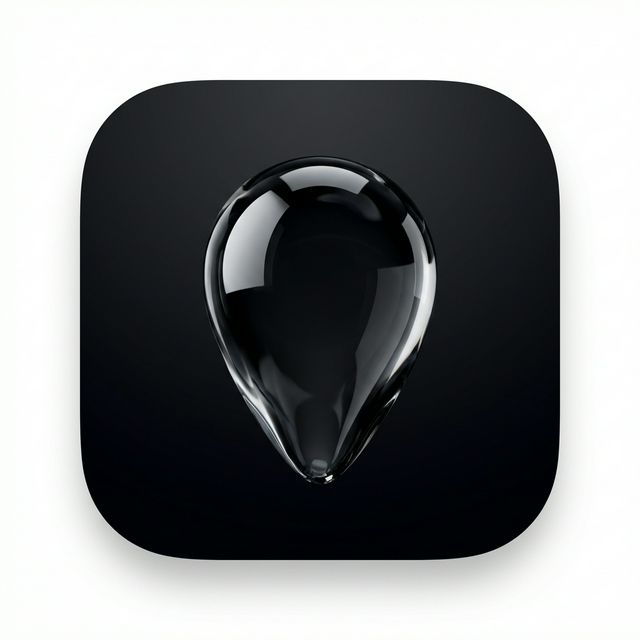
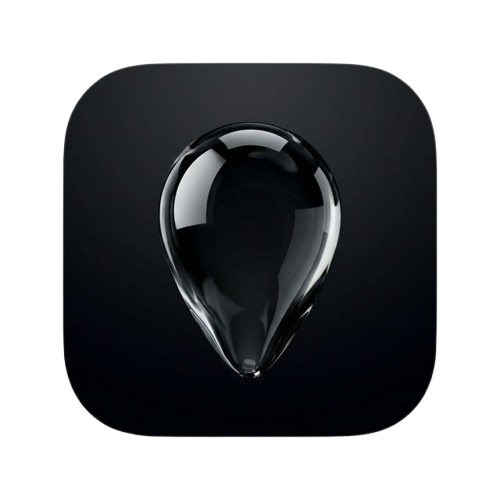
adjustment

diff --git a/public/index.html b/public/index.html
@@ -64,6 +64,7 @@
             background-size: 200% 200%;
             animation: gradientBG 15s ease infinite; 
             color: var(--text-primary);
+            padding-bottom: 15vh; /* Visual lift */
         }
         
         @keyframes gradientBG {
@@ -84,6 +85,27 @@
             border: 1px solid var(--glass-border);
             text-align: center;
             transition: transform 0.3s cubic-bezier(0.25, 0.8, 0.25, 1);
+            position: relative; /* For absolute positioning of lang toggle */
+        }
+        
+        .lang-toggle {
+            position: absolute;
+            top: 20px;
+            right: 20px;
+            background: rgba(120, 120, 128, 0.1);
+            border: none;
+            border-radius: 12px;
+            padding: 6px 10px;
+            font-size: 12px;
+            font-weight: 500;
+            color: var(--text-secondary);
+            cursor: pointer;
+            transition: all 0.2s ease;
+        }
+        
+        .lang-toggle:hover {
+            background: rgba(120, 120, 128, 0.2);
+            color: var(--text-primary);
         }
 
         .app-icon {
@@ -274,7 +296,13 @@
 <body>
 
 <div class="container">
-    <img src="/icon.png" alt="Icon" class="app-icon">
+    <button class="lang-toggle" id="langToggle" onclick="toggleLanguage()">EN / 中</button>
+    
+    <picture>
+        <source srcset="/icon-dark.png" media="(prefers-color-scheme: dark)">
+        <img src="/icon.png" alt="Icon" class="app-icon">
+    </picture>
+    
     <h1>GTC</h1>
     <p class="subtitle" id="lblSubtitle">Convert URLs to Coordinates</p>
 
@@ -318,7 +346,8 @@
             unknownPlace: '未知地點',
             copied: '已複製！',
             pleaseCopyFromShare: '請從 Google 地圖的「分享」功能複製網址',
-            coordsNotFound: '找不到座標'
+            coordsNotFound: '找不到座標',
+            toggleBtn: 'English'
         },
         'en': {
             subtitle: 'Convert URLs to Coordinates',
@@ -328,15 +357,18 @@
             unknownPlace: 'Unknown Place',
             copied: 'Copied!',
             pleaseCopyFromShare: 'Please copy the URL using the Share function in Google Maps',
-            coordsNotFound: 'Coords not found'
+            coordsNotFound: 'Coords not found',
+            toggleBtn: '中文'
         }
     };
 
-    // Detect Language
-    const userLang = navigator.language || navigator.userLanguage;
-    const isZh = userLang.toLowerCase().includes('zh') || userLang.toLowerCase().includes('tw');
-    const lang = isZh ? 'zh-TW' : 'en';
-    const t = I18N[lang];
+    // Initialize Language
+    // Check localStorage first, then browser language
+    const savedLang = localStorage.getItem('gtc_lang');
+    const systemLang = (navigator.language || navigator.userLanguage).toLowerCase();
+    const defaultLang = savedLang ? savedLang : (systemLang.includes('zh') || systemLang.includes('tw') ? 'zh-TW' : 'en');
+    
+    let currentLang = defaultLang;
 
     // UI Elements
     const urlInput = document.getElementById('urlInput');
@@ -345,6 +377,7 @@
     const resultCard = document.getElementById('resultCard');
     const errorMsg = document.getElementById('errorMsg');
     const subtitleEl = document.getElementById('lblSubtitle');
+    const langToggleBtn = document.getElementById('langToggle');
     
     // Output Elements
     const placeNameEl = document.getElementById('placeName');
@@ -352,13 +385,36 @@
     const btnApple = document.getElementById('btnApple');
     const btnNaver = document.getElementById('btnNaver');
 
-    // Apply translations
-    document.documentElement.lang = lang;
-    subtitleEl.textContent = t.subtitle;
-    urlInput.placeholder = t.placeholder;
-    convertBtn.textContent = t.convert;
+    function updateLanguage() {
+        const t = I18N[currentLang];
+        document.documentElement.lang = currentLang;
+        
+        // Update Static Text
+        subtitleEl.textContent = t.subtitle;
+        urlInput.placeholder = t.placeholder;
+        convertBtn.textContent = t.convert;
+        langToggleBtn.textContent = t.toggleBtn;
+
+        // If error message is showing, update it (approximated, logic might need precise error tracking to be perfect but good enough)
+        if (errorMsg.style.display === 'block') {
+           // Generally we clear error on lang switch or just let user re-try, but we can leave it
+        }
+        
+        // Save preference
+        localStorage.setItem('gtc_lang', currentLang);
+    }
+    
+    function toggleLanguage() {
+        currentLang = currentLang === 'zh-TW' ? 'en' : 'zh-TW';
+        updateLanguage();
+    }
+
+    // Initial Render
+    updateLanguage();
 
     async function convert() {
+        const t = I18N[currentLang]; // Get current dictionary
+        
         const url = urlInput.value.trim();
         if (!url) return;
 
@@ -428,3 +484,6 @@
         }
     });
 </script>
+
+</body>
+</html>

diff --git a/local.js b/local.js
@@ -4,12 +4,11 @@ const app = express()
 
 const handler = require('./api/index')
 
+// Serve static files from public directory
+app.use(express.static('public'));
+
 app.get('/api', async (req, res) => {
   await handler(req, res)
-})
-
-app.get('/', (req, res) => {
-  res.send('API is running. Please use /api?url=...')
 })
 
 const PORT = process.env.PORT || 3000

diff --git a/README.md b/README.md
@@ -1,12 +1,18 @@
 # GTC (Google To Coords)
 
+[English](#english) | [繁體中文](#繁體中文)
+
+---
+
+## English
+
 A powerful tool to convert Google Maps URLs into precise coordinates (Latitude, Longitude) and provide deep links to open them directly in **Apple Maps** or **Naver Map**.
 
 ![App Icon](public/icon.png)
 
-## Features
+### Features
 
-### 🚀 Core API
+#### 🚀 Core API
 - **Advanced Extraction**: Uses multiple strategies to find coordinates (Meta tags, RPC requests, detailed JSON parsing).
 - **Smart Redirect Handling**: specific handling for `goo.gl`, `maps.app.goo.gl` redirects, and `ftid` shortcuts.
 - **Reliability**: 
@@ -14,21 +20,21 @@ A powerful tool to convert Google Maps URLs into precise coordinates (Latitude, 
   - **Fail-safe Strategies**: Implements timeouts (6s) and exponential backoff retries.
   - **Priority Logic**: Carefully tuned priority to prefer precise "Pin" locations over generic viewports.
 
-### ✨ Frontend Interface
+#### ✨ Frontend Interface
 - **Modern Design**: Apple-style "Glassmorphism" UI with liquid animated backgrounds.
-- **Dark Mode**: Fully supports system dark mode with animated dark mesh gradients.
+- **Dark Mode**: Fully supports system dark mode with animated dark mesh gradients and **Adaptive Icons** (switch between Blue/Black logic).
 - **Deep Links**: 
   - **Apple Maps**: one-click navigation.
   - **Naver Map**: Deep integration using `nmap://place` with name and app source preservation.
-- **i18n**: Auto-detects **Traditional Chinese (繁體中文)** and **English** based on system settings.
+- **i18n**: Support **English** and **Traditional Chinese** with language toggle button.
 - **User Friendly**: Custom error messages guiding users to use the "Share" link if extraction fails.
 
-## Usage
+### Usage
 
-### Web Interface
+#### Web Interface
 Simply visit the root URL (`/`), paste a Google Maps link, and click "Convert".
 
-### API Endpoint
+#### API Endpoint
 GET `/api?url={GOOGLE_MAPS_URL}`
 
 **Input:**
@@ -44,17 +50,78 @@ https://maps.app.goo.gl/nNy5s3mhUjJx6ftz6
 }
 ```
 
-## Tech Stack
+### Tech Stack
 - **Runtime**: Node.js (Vercel Serverless Function)
 - **Frontend**: Vanilla HTML/JS/CSS (No framework overhead)
 - **Styling**: Native CSS Variables & Animations
 
-## Local Development
+### Local Development
 
 ```bash
 # Install dependencies
 npm install
 
 # Run locally
+npm start
+```
+
+---
+
+## 繁體中文
+
+一個強大的工具，可將 Google Maps 網址轉換為精確的座標（經度、緯度），並提供直接在 **Apple Maps** 或 **Naver Map** 中開啟的深度連結。
+
+### 功能特色
+
+#### 🚀 核心 API
+- **進階提取技術**：使用多種策略尋找座標（Meta 標籤、RPC 請求、詳細 JSON 解析）。
+- **智慧轉址處理**：針對 `goo.gl`、`maps.app.goo.gl` 轉址和 `ftid` 捷徑進行特殊處理。
+- **高可靠性**：
+  - **隨機 User-Agent**：輪替 UA 以防止被阻擋。
+  - **故障安全策略**：實作超時機制（6秒）和指數退避重試 (Exponential Backoff)。
+  - **優先級邏輯**：精心調整的優先順序，優先選擇精確的「大頭針」位置而非僅是視圖範圍。
+
+#### ✨ 前端介面
+- **現代化設計**：具有流體動畫背景的 Apple 風格「毛玻璃 (Glassmorphism)」UI。
+- **深色模式 (Dark Mode)**：完全支援系統深色模式，搭配動畫網格漸層背景，以及 **自適應圖示**（根據模式切換 藍色/黑色 水滴圖示）。
+- **深度連結 (Deep Links)**：
+  - **Apple Maps**：一鍵導航。
+  - **Naver Map**：使用 `nmap://place` 進行深度整合，保留地點名稱與來源應用程式資訊。
+- **多語系支援**：支援 **英文** 與 **繁體中文**，並提供語言切換按鈕。
+- **使用者友善**：若提取失敗，會顯示自訂錯誤訊息，引導使用者使用「分享」連結。
+
+### 使用説明
+
+#### 網頁介面
+只需訪問根網址 (`/`)，貼上 Google Maps 連結，然後點擊「轉換」。
+
+#### API 端點
+GET `/api?url={GOOGLE_MAPS_URL}`
+
+**輸入:**
+```
+https://maps.app.goo.gl/nNy5s3mhUjJx6ftz6
+```
+
+**輸出:**
+```json
+{
+  "coords": "25.033976,121.564539",
+  "placeName": "Taipei 101"
+}
+```
+
+### 技術堆疊
+- **執行環境**: Node.js (Vercel Serverless Function)
+- **前端**: Vanilla HTML/JS/CSS (無框架負擔)
+- **樣式**: Native CSS Variables & Animations
+
+### 本地開發
+
+```bash
+# 安裝依賴
+npm install
+
+# 本地執行
 npm start
 ```
